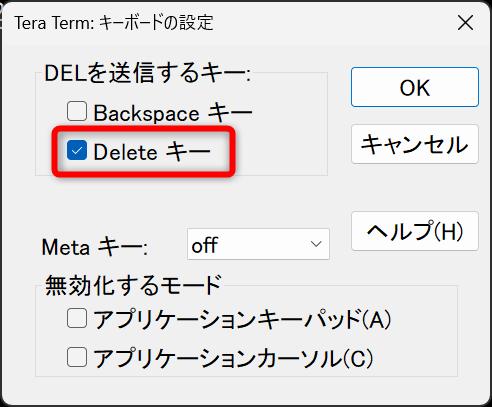
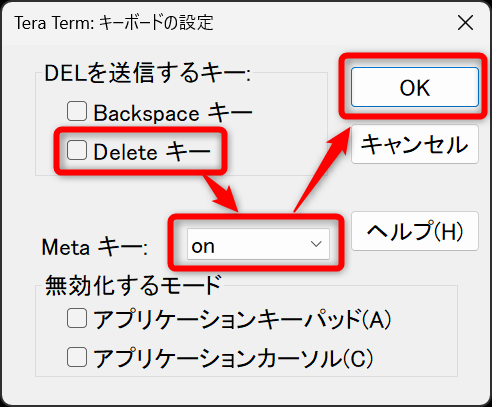
手順追加

Changed region(s): [[0.0915, 0.1179, 1.0, 0.6781], [0.0, 0.0, 0.0305, 0.0295]]

diff --git a/README.md b/README.md
@@ -167,14 +167,17 @@ https://www.centos.org/
 SSH接続成功
 ![](images/063.png)
 
-### Deleteキーの設定
+### DeleteキーとMetaキーの設定
 
 `設定`→`キーボード`をクリック  
 ![](images/070.png)
 
-`Deleteキー`のチェックを外して`OK`をクリック  
+- `Deleteキー`のチェックを外す
+- `Metaキー`を`on`に変える
+- `OK`をクリック
+
 ![](images/071.png)
-![](images/072.png)
+
 
 `設定`→`設定の保存`をクリック
 ![](images/073.png)
